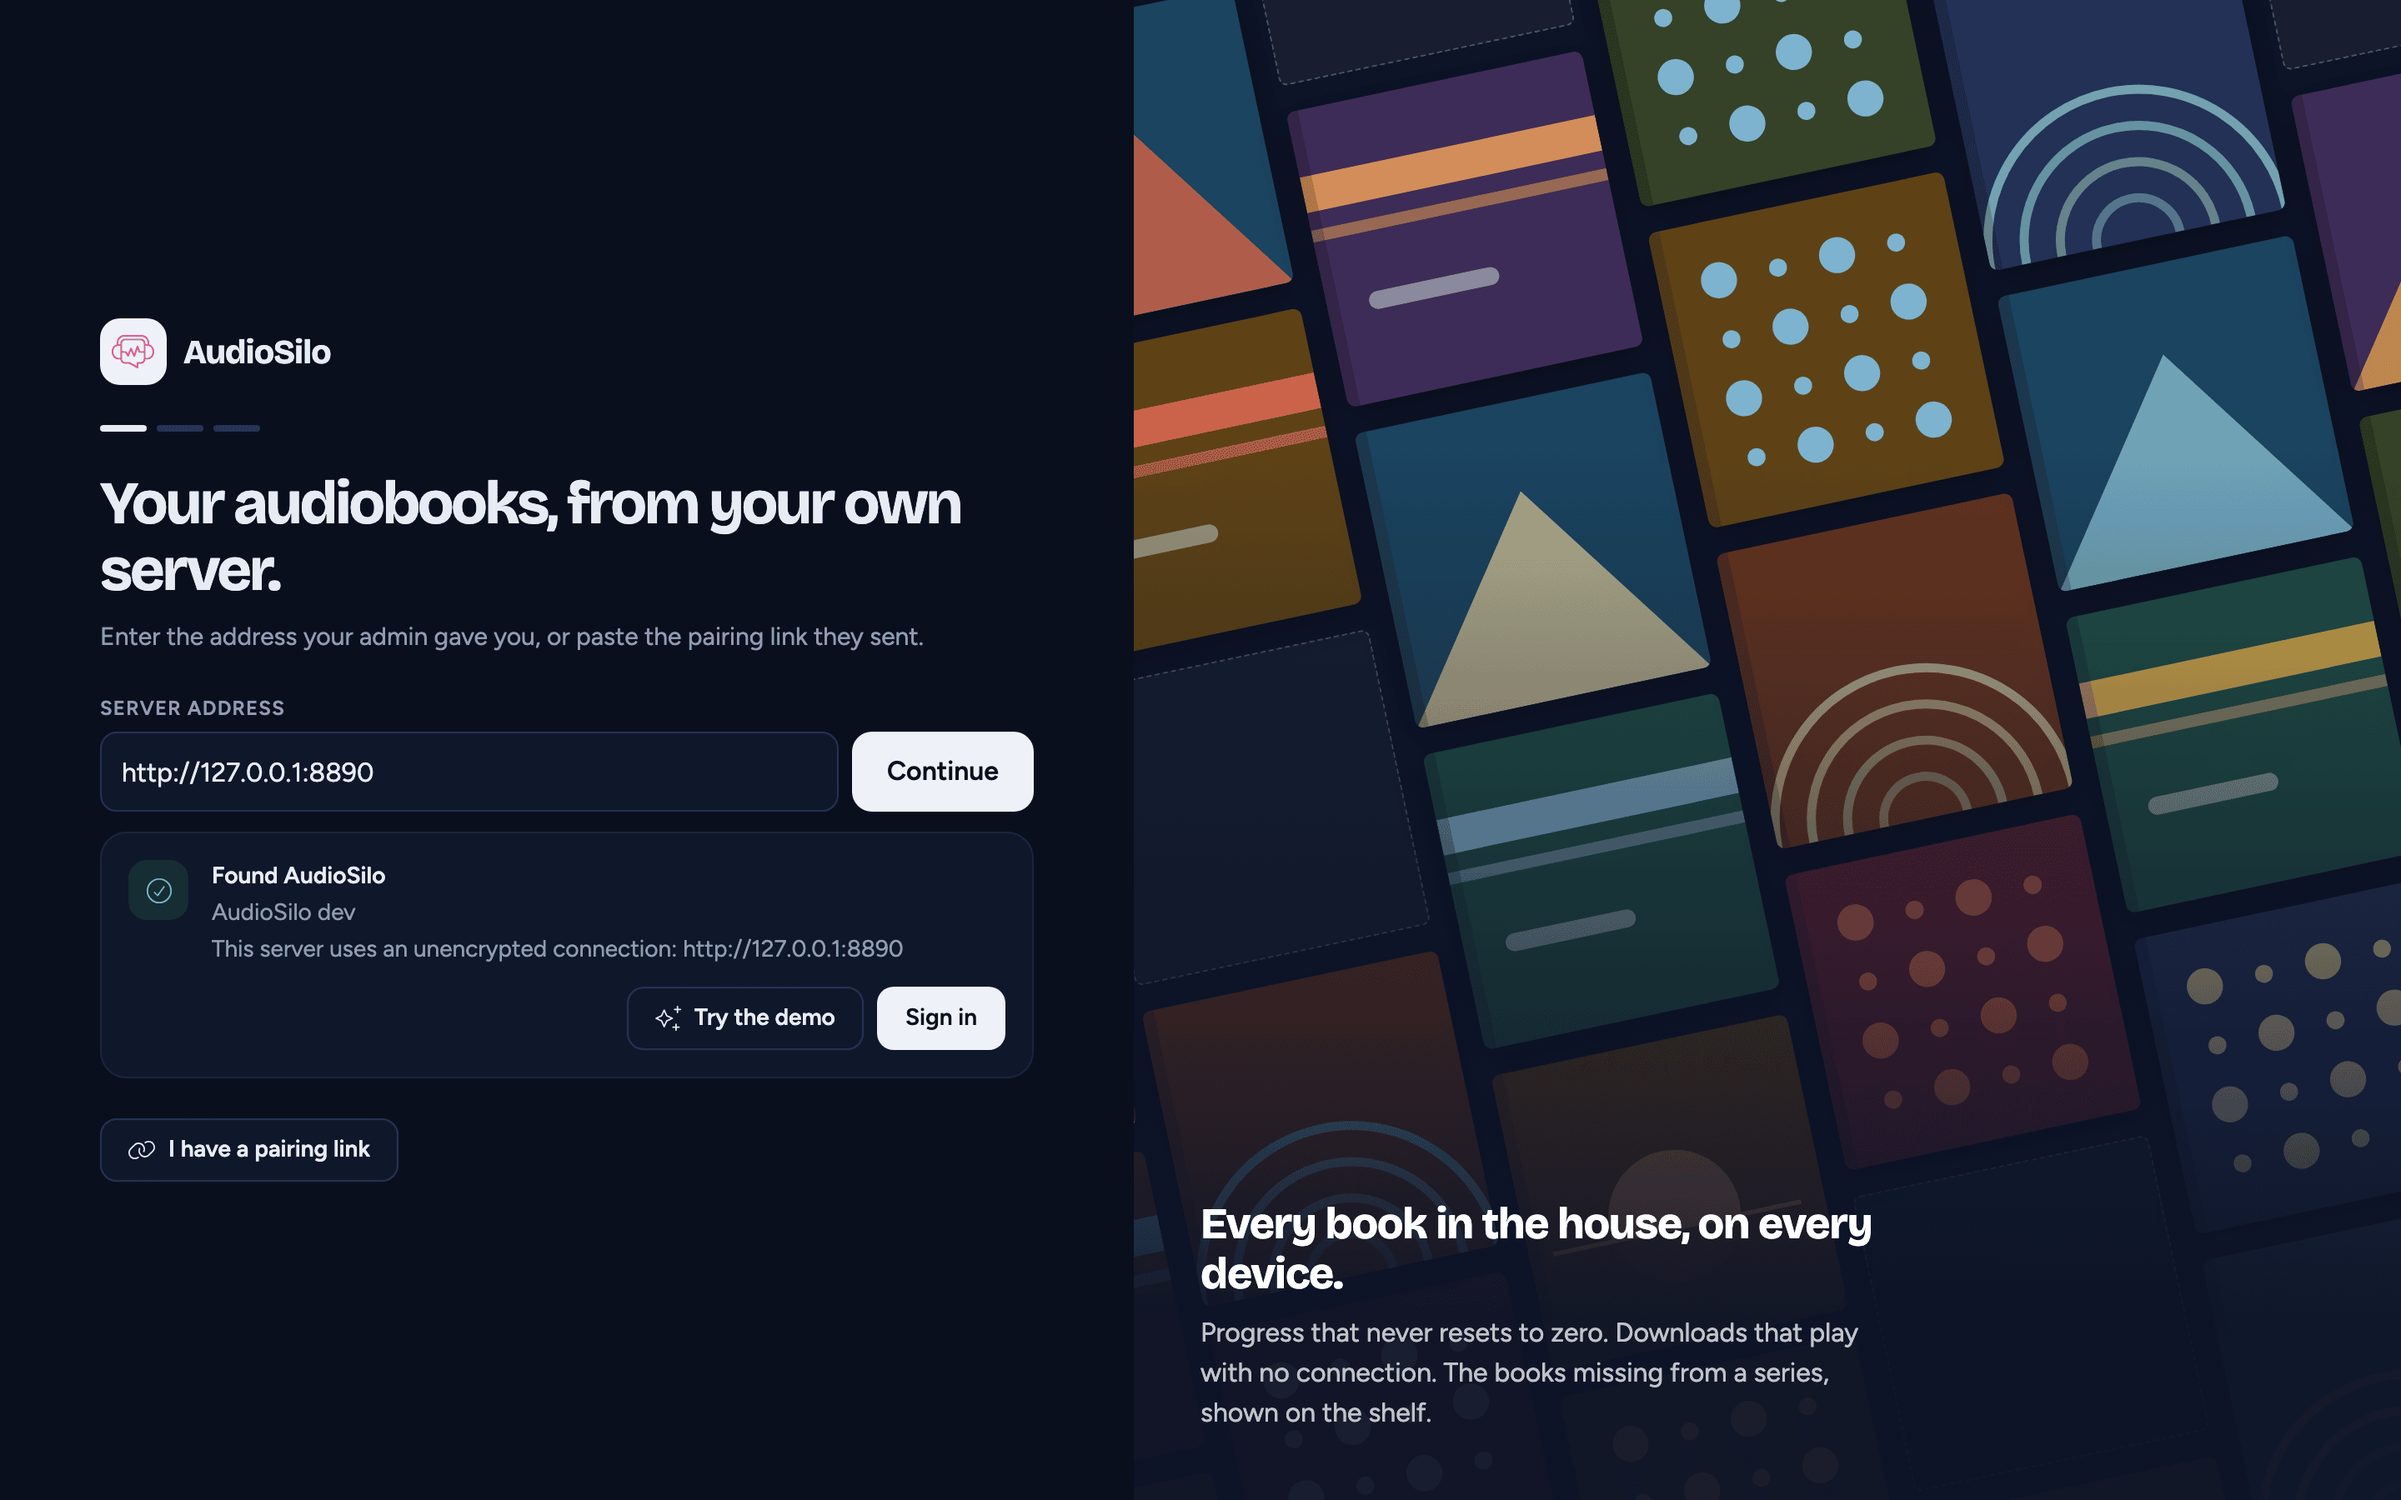
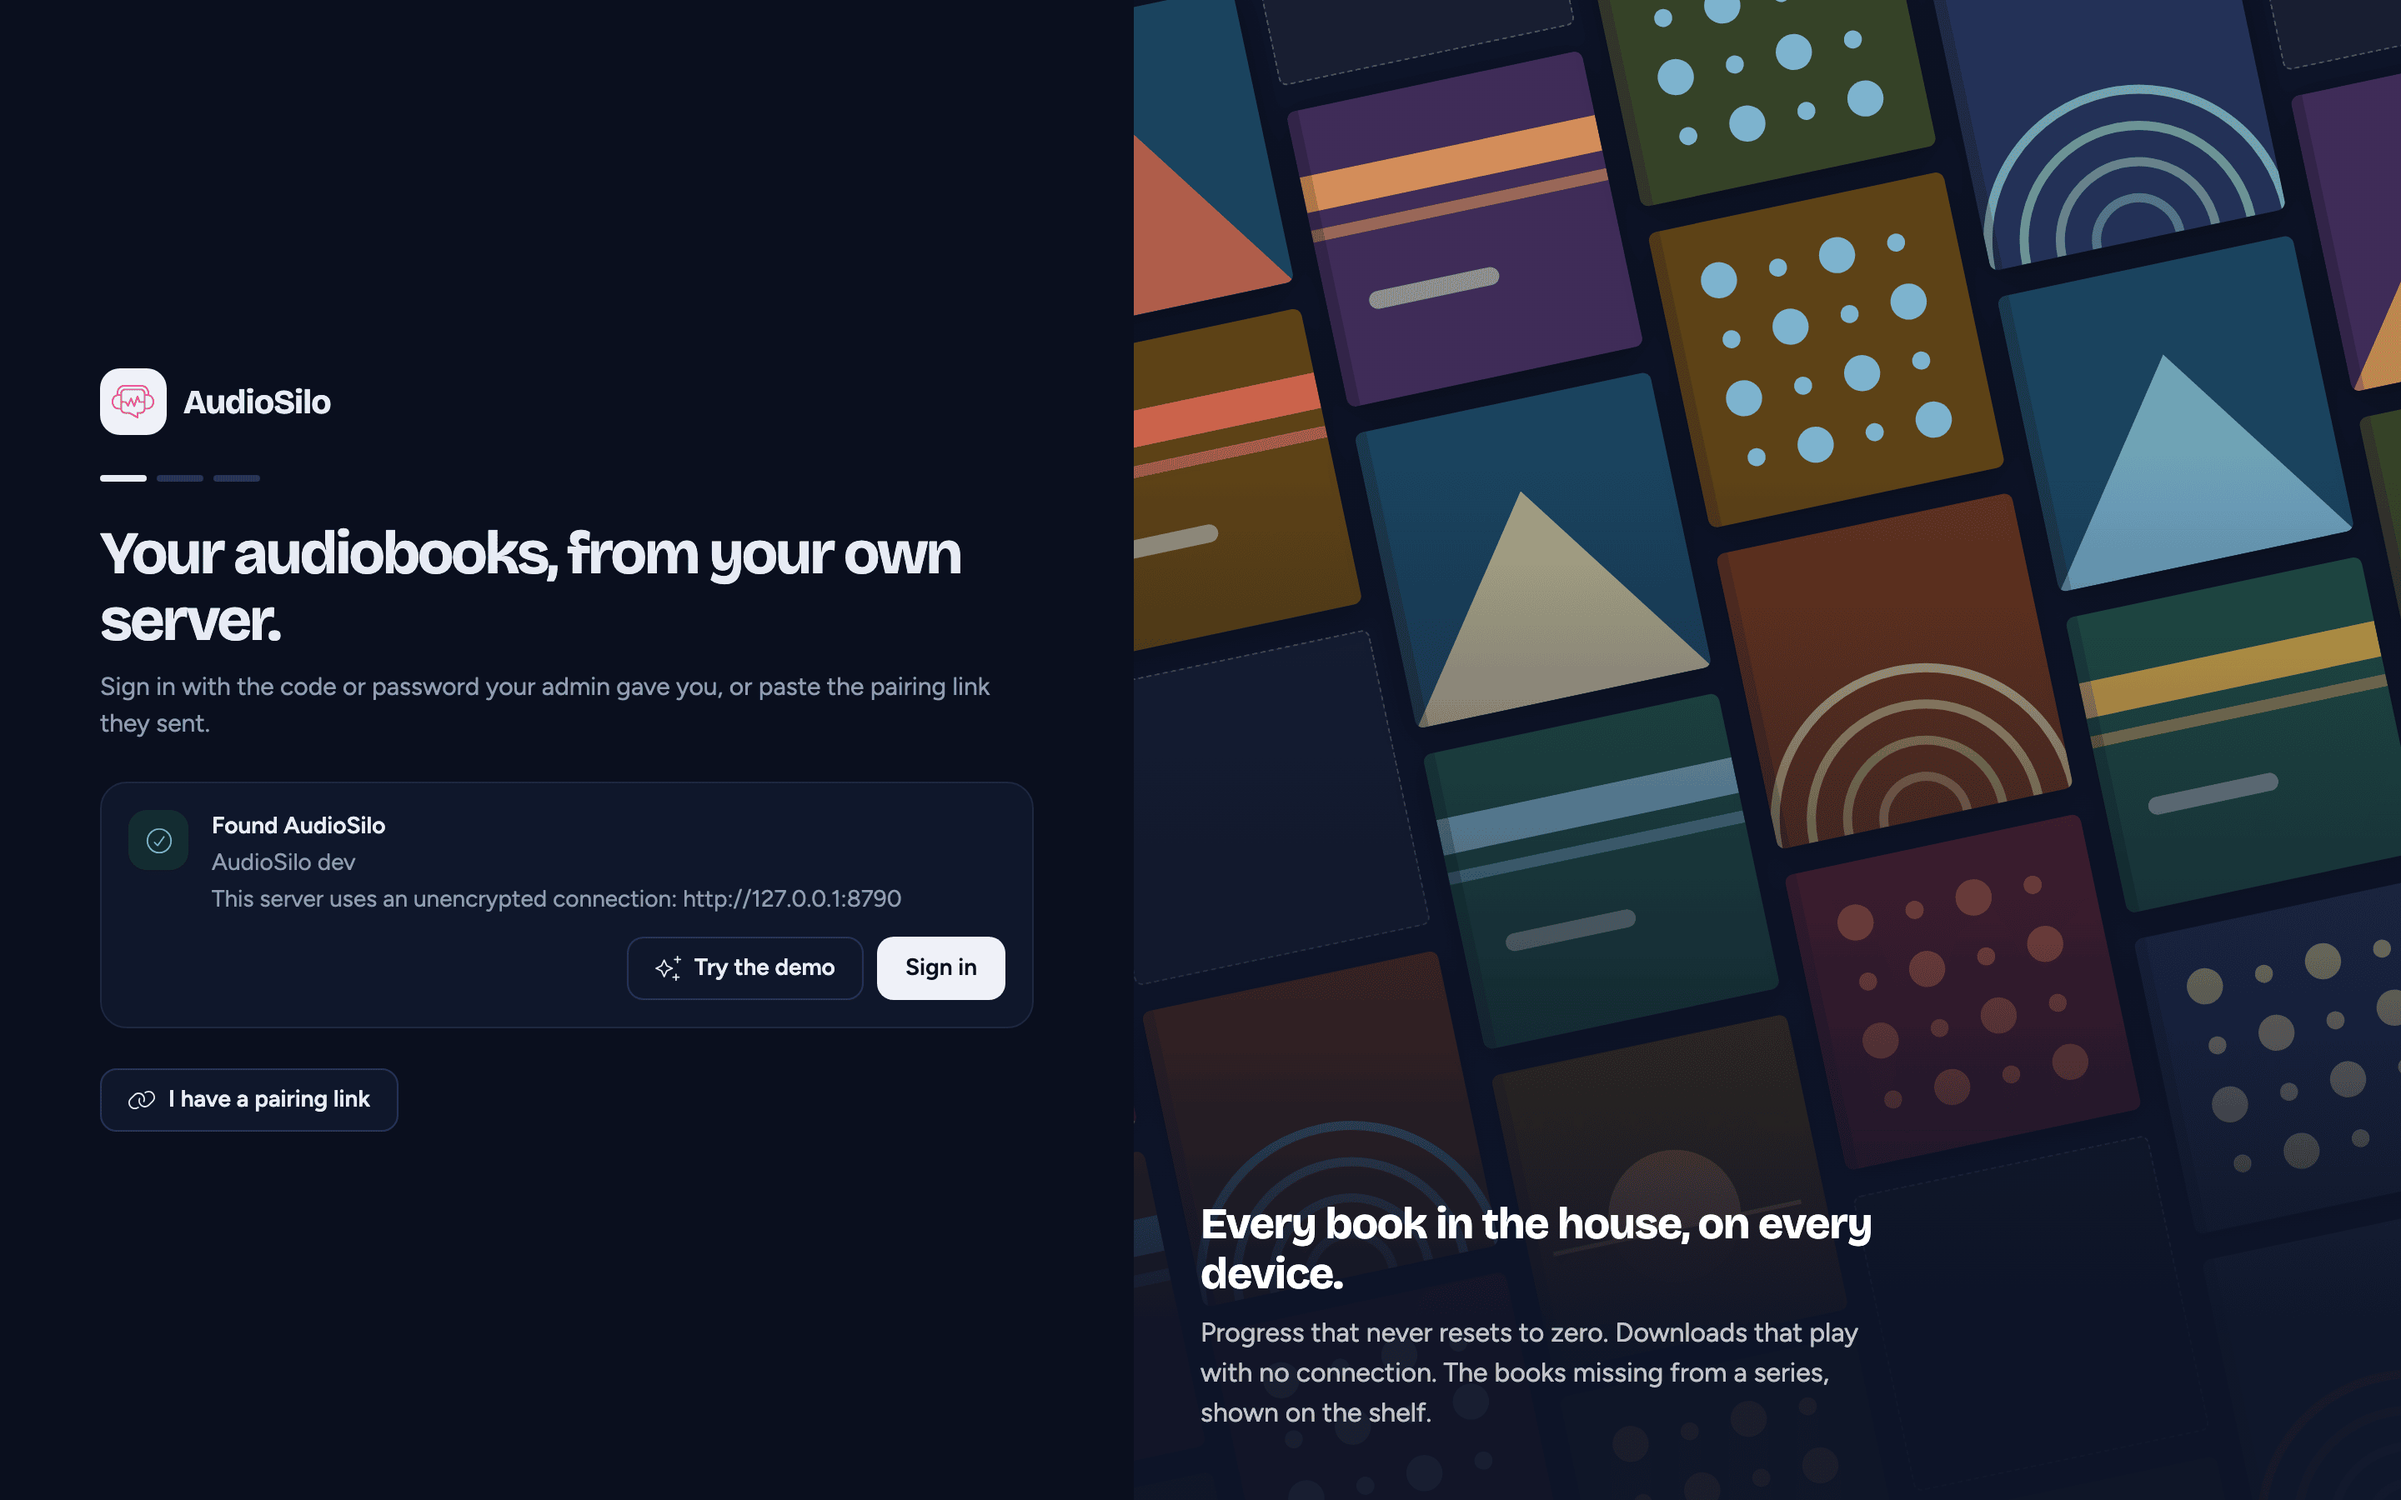
Web player connect: the served player asks for no address
The web player opens on the server it belongs to (Found <name>, Sign in,
Try the demo) and has no Add a server; the apps still ask for the address.
The connect capture types the address only for an older frontend, and the
screenshot is regenerated.

diff --git a/docs-users/listening/connecting.md b/docs-users/listening/connecting.md
@@ -45,7 +45,11 @@ If you have the **AudioSilo app** installed, the surest way to sign *it* in with
 
 When the app (or the web player) isn't connected to anything yet, it opens on the connect screen: *"Your audiobooks, from your own server."*
 
-![The connect screen: the server address typed in, and the server it found with Sign in and Try the demo](/img/screenshots/web-player/connect.png)
+**In the web player** there is nothing to type: the web player belongs to the server you opened it from, so it already knows the address. The connect screen opens on that server, *"Found Hearthside"*, with **Sign in** (and **Try the demo** when the server runs one). Tap **Sign in** and go on from step 3 below. Only if the server doesn't answer does the screen ask for an address, with the web player's own address already filled in.
+
+![The web player's connect screen: the server it belongs to, found, with Sign in and Try the demo](/img/screenshots/web-player/connect.png)
+
+**In the iOS and Android apps**:
 
 1. Enter the **server address** your admin gave you (e.g. `books.example.com`) and tap **Continue**. Without `https://` or `http://` in front, the app adds `https://`, so type `http://` yourself for a server that only answers plain HTTP. If you don't know the address, ask your admin.
 2. The app asks the server who it is and says what it found: *"Found Hearthside"*, with the version of AudioSilo it runs, and a note when the address is plain `http://` (*"This server uses an unencrypted connection"*), which is fine at home but not over the internet (see [Remote access](../getting-started/remote-access.md)). Tap **Sign in**.
@@ -105,7 +109,7 @@ Already signed in on one device and want another? You don't need a new invite:
 - Open your [account page](account.md#opening-it) for the server and tap **Show a pairing code** under **Pair another device**. Scan the QR with the other device, or send it the link. The code works for 10 minutes. See [Pair another device](account.md#pair-another-device).
 - Or, if you've [set a password](account.md#password), just sign in with your username and password on the new device.
 
-You can even connect the app to **more than one server** - **Add a server** in your profile menu, or under [Settings > Accounts and devices](settings.md#accounts-and-devices). Your home screen and search then span all of them.
+You can even connect the app to **more than one server** - **Add a server** in your profile menu, or under [Settings > Accounts and devices](settings.md#accounts-and-devices). Your home screen and search then span all of them. The web player has no **Add a server**: it can only reach the server it's served from, so use the iOS or Android app to listen from several servers in one place.
 
 ## At home and away
 

diff --git a/docs-users/listening/browsing.md b/docs-users/listening/browsing.md
@@ -32,7 +32,7 @@ From left to right:
 - A **search field**. In the web player it opens [quick search](#quick-search-in-the-web-player); in the tablet app it takes you to the Search page. Where the bar is too narrow for the field (a tablet held upright, say), it shrinks to a search button that does the same.
 - The **Up next** button, with the number of books queued. It opens [Up next](up-next.md).
 - A **gear** button for [Settings](settings.md). It opens Settings over the page you're on, so going back returns you there.
-- Your **profile button** - your initial, plus your name on wider screens. It opens a menu listing your **servers**, each with a line saying who you're signed in as, or that it's **offline** or **needs signing in again** (pick one to open its [account page](account.md)); **Add a server**; your [Journal](journal.md); [Settings](settings.md); **Account on** your main server; and a switch between **light and dark** appearance.
+- Your **profile button** - your initial, plus your name on wider screens. It opens a menu listing your **servers**, each with a line saying who you're signed in as, or that it's **offline** or **needs signing in again** (pick one to open its [account page](account.md)); **Add a server** (in the apps; the web player only reaches its own server); your [Journal](journal.md); [Settings](settings.md); **Account on** your main server; and a switch between **light and dark** appearance.
 
 ![The profile menu open from the top bar](/img/screenshots/web-player/profile-menu.png)
 

diff --git a/docs-users/listening/settings.md b/docs-users/listening/settings.md
@@ -91,7 +91,7 @@ Profiles - everyone in the house with their own place in every book, a kids mode
 
 ## Accounts and devices
 
-The servers this device is signed in to, each with your username and its address. Tap one to open your [account on that server](account.md): your password, pairing another device, your signed-in devices, API keys and signing out. **Add a server** connects another one - your home screen, search, and favourites then combine everything (see [Connecting and signing in](connecting.md)). The bin button beside a server removes it from this device.
+The servers this device is signed in to, each with your username and its address. Tap one to open your [account on that server](account.md): your password, pairing another device, your signed-in devices, API keys and signing out. **Add a server** connects another one - your home screen, search, and favourites then combine everything (see [Connecting and signing in](connecting.md)). The web player doesn't offer it, since it only reaches the server it's served from. The bin button beside a server removes it from this device.
 
 :::warning
 Removing a server also **deletes that server's downloaded books from this device**, plus any listening progress that hasn't synced back yet. The app asks first if the server has downloads on the device. Your other servers are unaffected, and nothing on the server itself is touched. See [Offline downloads](offline-downloads.md).

diff --git a/docs-developers/frontend/connect-and-addresses.md b/docs-developers/frontend/connect-and-addresses.md
@@ -30,7 +30,12 @@ route table is in the [overview](overview.md#route-map). Three steps, counted by
    (`knownToOffer`, from `src/lib/known-servers.ts`) are one-tap "Reconnect to
    &lt;name&gt;" rows; on native, one with a home address is asked who it is there first
    (`reconnectAddress` → `pickAddress`, the rule below), and a reconnect goes straight to
-   sign-in unless the server runs a demo.
+   sign-in unless the server runs a demo. **The served player** (`servedOrigin()` in
+   `src/lib/base-url.ts`: a production web build, whose origin is the server and whose CSP,
+   `connect-src 'self'`, reaches no other) types nothing: it asks its own origin on open
+   (a spinner meanwhile) and shows the found card with no address field and no remembered
+   servers; only when that probe fails does the field show, filled in with the origin. The
+   Metro dev server (`npm run web`) is not the server, so it keeps the field.
 2. **Sign in** (`/connect/sign-in` → `SignInStep`): an invite code (`redeemCode` then
    `exchange`) or a username and password (`login`), against the address in
    `pendingServerUrl`, read once when the screen opens. It uses a bare client: it is not

diff --git a/docs-developers/frontend/overview.md b/docs-developers/frontend/overview.md
@@ -318,7 +318,7 @@ button (the user's initial, plus the name on desktop) and a `DropdownMenu`: ever
 connected server with its state - the pure `serverStatus()`
 (`src/api/reachability.ts`), where "needs signing in again" (the reconnect flag)
 wins over "offline", else "Signed in as &lt;user&gt;" - each opening that server's account screen; **Add a server**
-(`/connect?add=1`); **Journal** (`openJournal()`); **Settings** (`openSettings()`); **Account on &lt;default server&gt;**; and a light/dark
+(`/connect?add=1`; hidden on the served web player, `servedOrigin()`, as in Settings' accounts pane); **Journal** (`openJournal()`); **Settings** (`openSettings()`); **Account on &lt;default server&gt;**; and a light/dark
 appearance switch (`useTheme().toggleScheme()`, which the palette's action uses
 too). A phone keeps all of this in the Me tab's You hub. The same `serverStatus()` drives
 the top bar's server line (the default server's name, or "Offline" / "Needs
